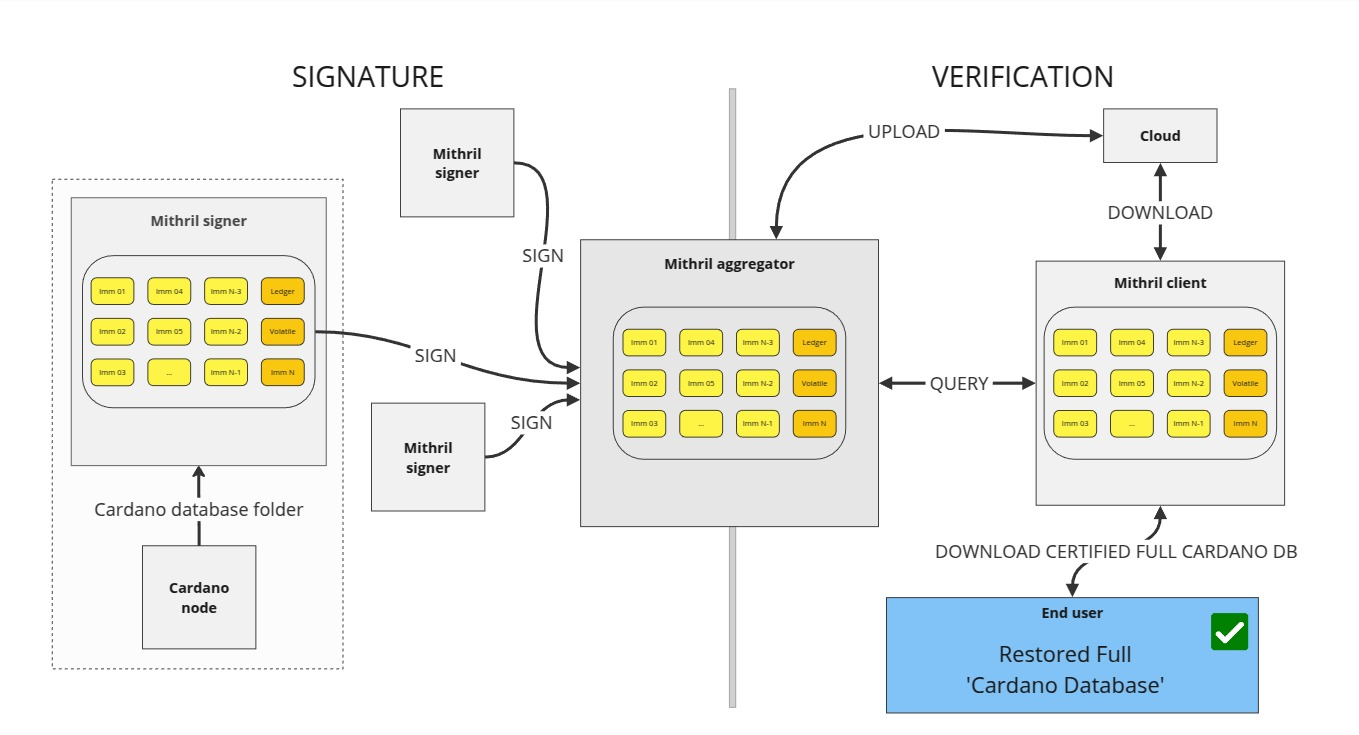
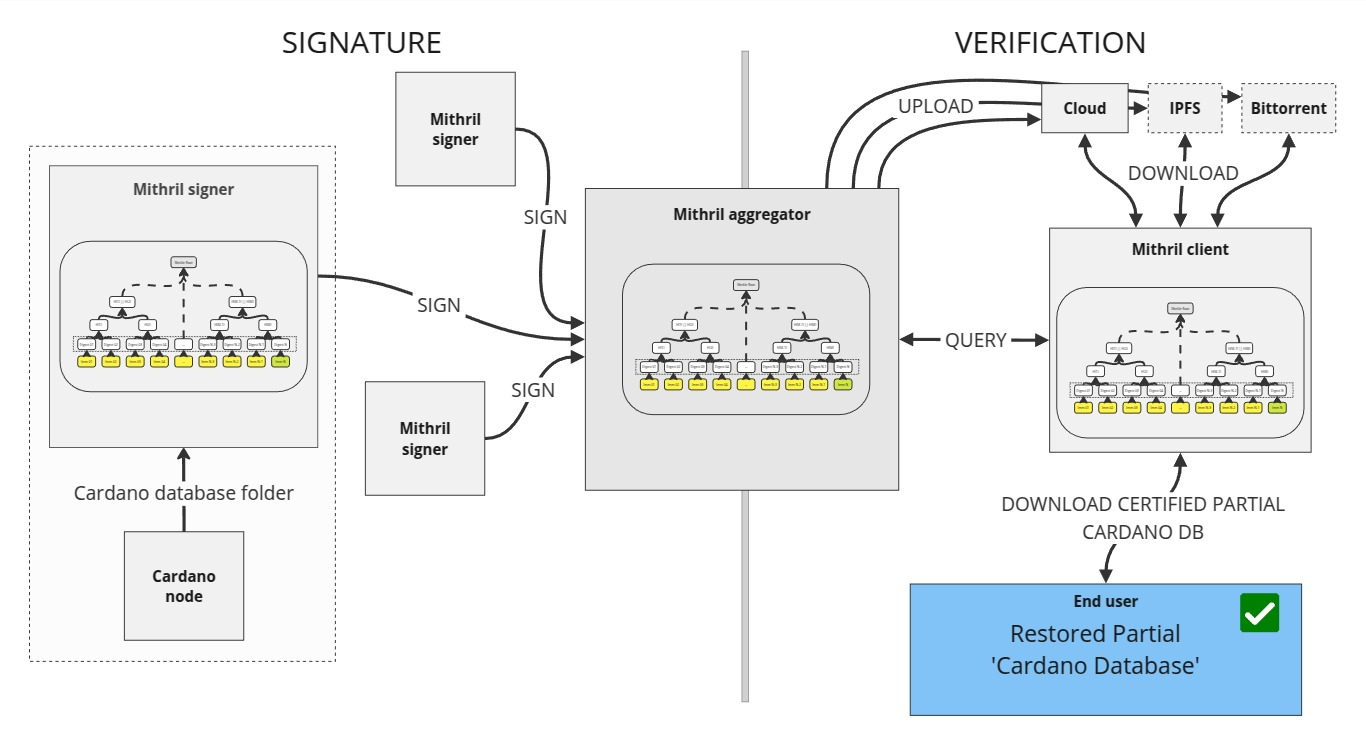
doc(website): supersede v1 cardano node db page with the v2 version

diff --git a/docs/website/docusaurus.config.js b/docs/website/docusaurus.config.js
@@ -204,6 +204,14 @@ const config = {
             from: ["/mithril/threat-model"],
           },
           {
+            to: "/mithril/advanced/mithril-certification/cardano-node-database",
+            from: ["/mithril/advanced/mithril-certification/cardano-node-database-v2"],
+          },
+          {
+            to: "/next/mithril/advanced/mithril-certification/cardano-node-database",
+            from: ["/next/mithril/advanced/mithril-certification/cardano-node-database-v2"],
+          },
+          {
             to: "/aggregator-api/current",
             from: ["/aggregator-api"],
           },

diff --git a/docs/website/root/mithril/advanced/mithril-certification/cardano-node-database.md b/docs/website/root/mithril/advanced/mithril-certification/cardano-node-database.md
@@ -5,32 +5,31 @@ sidebar_label: Cardano node database
 
 # Cardano node database
 
-:::info
-
-- This certification will be superseded by a new incremental [certification](./cardano-node-database-v2.md) process for the Cardano node internal database.
-- The rollout of this new certification is detailed in this [blog post](https://mithril.network/doc/dev-blog/2025/06/17/client-cli-cardano-database-backends).
-
-:::
-
-The Mithril protocol supports the certification of the **Cardano node internal database**, enabling fast bootstrapping of a Cardano node. This is particularly useful for full-node wallets, SPOs, and layer 2 protocols that need to operate full Cardano nodes.
+The Mithril protocol supports the incremental certification of the **Cardano node internal database**, enabling fast bootstrapping of a Cardano node on a **specific range of immutable files**. This is particularly useful for full-node wallets, SPOs, and layer 2 protocols that need to operate full Cardano nodes and want to synchronize them quickly after an offline period.
 
 To achieve this, Mithril signers and aggregators independently compute a message representing the immutable files of the Cardano node internal database and apply the Mithril protocol to jointly sign it.
+
+A natural structure for the message is a **Merkle tree**, which:
+
+- Can be succinctly represented by its **Merkle root** (the signed message)
+- Enables membership proof of an immutable file in the set by providing the **Merkle path** from the immutable file to the root.
 
 :::info
 
 The Cardano node internal database:
 
 - Exceeds `150 GB` on the Cardano mainnet
-- Can be bootstrapped in `~20 minutes` with Mithril
+- Holds less than `20,000` immutable files on the Cardano mainnet
+- Can be fully bootstrapped in `~20 minutes` with Mithril
 - Takes over `24 hours` without Mithril.
 
 :::
 
 ## Mithril certification
 
-[![Design of the certification of the Cardano node internal database](./images/cardano-node-database/end-to-end-process.jpg)](./images/cardano-node-database/end-to-end-process.jpg)
+[![Design of the certification of the Cardano node internal database](images/cardano-node-database/end-to-end-process.jpg)](images/cardano-node-database/end-to-end-process.jpg)
 
-<div style={{textAlign: "center", paddingBottom: "2em"}}><small>End-to-end certification for Cardano transactions</small></div>
+<div style={{textAlign: "center", paddingBottom: "2em"}}><small>End-to-end certification for Cardano node database</small></div>
 
 :::info
 
@@ -40,25 +39,38 @@ Learn about the Mithril certification steps [here](./README.mdx).
 
 ### Message computation
 
-The message is the hash of the concatenation of the immutable files in the Cardano node internal database:
+The message is the root of the Merkle tree composed of the hash of the immutable files in the Cardano node internal database:
 
 - The hash of the immutable files is computed with `SHA256` of their binary content
-- The message is computed with `SHA256` of the concatenation of the hashes of the immutable files
 - The last immutable file, the ledger state, and the volatile cannot be signed as the Cardano node does not deterministically compute them.
 
 The message computation is the same on the signers and the aggregators.
 
-[![Design of the certification of the Cardano node internal database](./images/cardano-node-database/message.jpg)](./images/cardano-node-database/message.jpg)
+[![Design of the certification of the Cardano node internal database](images/cardano-node-database/message.jpg)](images/cardano-node-database/message.jpg)
 
 <div style={{textAlign: "center", paddingBottom: "2em"}}><small>Message creation on the signers and aggregators</small></div>
 
+:::info
+
+The Merkle tree inner nodes are computed with the `BLAKE2s-256` hash function: the child bytes are concatenated and hashed to compute the parent node.
+
+:::
+
 ### Authenticity verification
 
-The verification process operates on the full Cardano node internal database:
+Since the number of immutable files in the Cardano node’s internal database is small, computing the Merkle tree is fast and can be performed on the client side.
 
-- The client downloads a compressed artifact from an untrusted source (eg, an aggregator or a cloud service)
-- The client computes the message from the downloaded artifact and verifies that it is signed by a valid Mithril certificate.
+The verification process for a subset of immutable files in the Cardano internal database operates as follows:
 
-[![Design of the certification of the Cardano node internal database](./images/cardano-node-database/message.jpg)](./images/cardano-node-database/message.jpg)
+- The client downloads data from one or more untrusted sources (eg, an aggregator or a cloud service):
+  - A compressed artifact of the partial range of immutable files to restore
+  - A map of the digests of immutable files in the Cardano node internal database
+- The client computes the same Merkle tree as the signers and aggregators using the fetched digests
+- The client computes a Merkle proof of membership for the downloaded immutable files, ensuring that:
+  - The proof is derived from the computed Merkle tree
+  - The proof is valid
+  - The Merkle root is signed by a valid Mithril certificate.
 
-<div style={{textAlign: "center", paddingBottom: "2em"}}><small>Message creation on the clients (same as on signers and aggregators)</small></div>
+[![Design of the certification of the Cardano node internal database v2](images/cardano-node-database/proof-client.jpg)](images/cardano-node-database/proof-client.jpg)
+
+<div style={{textAlign: "center", paddingBottom: "2em"}}><small>Proof creation on the clients</small></div>

diff --git a/docs/website/versioned_docs/version-maintained/mithril/advanced/mithril-certification/cardano-node-database-v2.md b/docs/website/versioned_docs/version-maintained/mithril/advanced/mithril-certification/cardano-node-database-v2.md
@@ -19,7 +19,7 @@ To achieve this, Mithril signers and aggregators independently compute a message
 A natural structure for the message is a **Merkle tree**, which:
 
 - Can be succinctly represented by its **Merkle root** (the signed message)
-- Enables membership proof of an immutable file by providing the **Merkle path** from the transaction to the root.
+- Enables membership proof of an immutable file in the set by providing the **Merkle path** from the immutable file to the root.
 
 :::info
 
@@ -36,7 +36,7 @@ The Cardano node internal database:
 
 [![Design of the certification of the Cardano node internal database v2](./images/cardano-node-database-v2/end-to-end-process.jpg)](./images/cardano-node-database-v2/end-to-end-process.jpg)
 
-<div style={{textAlign: "center", paddingBottom: "2em"}}><small>End-to-end certification for Cardano transactions</small></div>
+<div style={{textAlign: "center", paddingBottom: "2em"}}><small>End-to-end certification for Cardano node database</small></div>
 
 :::info
 

diff --git a/docs/website/root/mithril/advanced/mithril-certification/cardano-blocks-and-transactions.md b/docs/website/root/mithril/advanced/mithril-certification/cardano-blocks-and-transactions.md
@@ -1,5 +1,5 @@
 ---
-sidebar_position: 5
+sidebar_position: 4
 sidebar_label: Cardano blocks and transactions
 ---
 